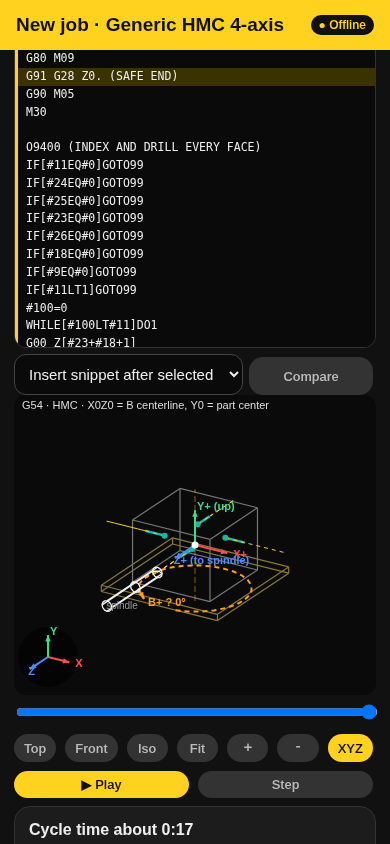
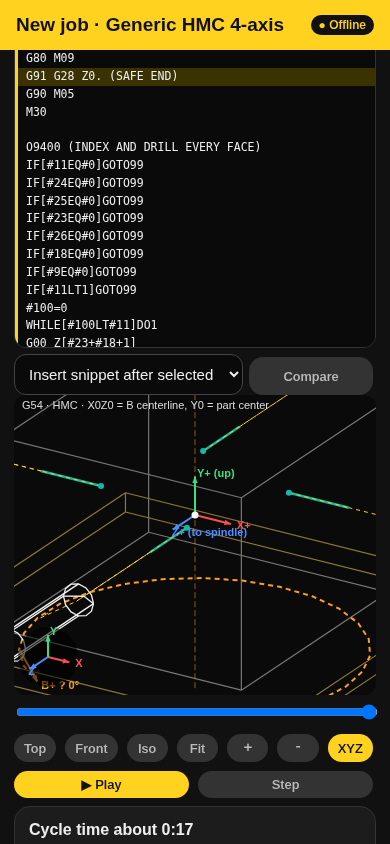
Round 8: import file into editor, lathe tool-nose radius + comp note, mill side out-of-stock, bigger HMC fit, cache-busted tests

diff --git a/index.html b/index.html
@@ -359,7 +359,7 @@ function snips(){document.querySelectorAll('.tabs button').forEach(b=>b.classLis
 // ---------- samples (§27), about + change log (§33)
 const SAMPLES=[['Mill A','Bolt circle (mill)','G54 T5 6 hole bolt circle 3.0 dia center x0 y0 z0 0 start 15 0.5 deep peck 0.1'],['Mill A','Hole grid (mill)','G55 T2 3 x 4 grid 0.75 spacing start x0.5 y0.5 z0 0 0.4 deep drill'],['Mill A','Face mill','G54 T1 face 4 x 3 take off 0.06 stepdown 0.02 stepover 70 z0 0'],['Lathe 1','OD turn (lathe)','G54 T1 turn 2.0 bar to 1.5 dia 3 long z0 0 chamfer 0.03'],['Lathe 1','OD groove (lathe)','G54 T3 groove 0.25 wide 0.1 deep at z-1.0 2.0 bar z0 0']];
 function sample(i){const s=SAMPLES[i],k=S.m.findIndex(m=>m.name==s[0]);if(k>=0)S.cur=k;tab('new');ex(s[2])}
-const LOG=[['0.7 · Oct 12','B rotation arrow on horizontal mills (dashed ? until direction confirmed), live B angle. XYZ triad at the work offset with zero description, A/B rotation arrow, corner view gizmo, live tool position, triad toggle.'],['0.6 · Oct 12','Per-machine tool libraries, file import for scanner/compare, O-number .nc export with % and CRLF/LF, keyboard shortcuts, 4th-axis stock check fix.'],['0.5 · Oct 12','Probe sim touches the stock wall; rigid tap (G84, M29 per machine); 4th-axis every-face drilling; teach mode; PIN lock; more edge-case checks.'],['0.4 · Oct 12','Probing jobs (bore, surface, web, pocket) with G31 + G10 write, machine options checklist, reference, compare, batch check, tool life, backup/import/clear, snippet insert.'],['0.3 · Oct 12','Simulator now runs your edited macro text (small Macro B interpreter). Lathe view fit/pan/zoom. Tool library, G-code scanner, calculators, alarm preview, export, setup sheet, samples, snippets.'],['0.2 · Oct 12','Lathe jobs, tool shown in sim, scrub + line highlight, required positional values, extended work offsets.'],['0.1 · Oct 12','First prototype: machines, bolt circle/grid/face, Macro B generator, checker, 3D view, recent.']];
+const LOG=[['0.8 · Oct 12','HMC kinematics view, import a file into the editor, lathe tool-nose radius, mill side out-of-stock check, bigger HMC fit.'],['0.7 · Oct 12','B rotation arrow on horizontal mills (dashed ? until direction confirmed), live B angle. XYZ triad at the work offset with zero description, A/B rotation arrow, corner view gizmo, live tool position, triad toggle.'],['0.6 · Oct 12','Per-machine tool libraries, file import for scanner/compare, O-number .nc export with % and CRLF/LF, keyboard shortcuts, 4th-axis stock check fix.'],['0.5 · Oct 12','Probe sim touches the stock wall; rigid tap (G84, M29 per machine); 4th-axis every-face drilling; teach mode; PIN lock; more edge-case checks.'],['0.4 · Oct 12','Probing jobs (bore, surface, web, pocket) with G31 + G10 write, machine options checklist, reference, compare, batch check, tool life, backup/import/clear, snippet insert.'],['0.3 · Oct 12','Simulator now runs your edited macro text (small Macro B interpreter). Lathe view fit/pan/zoom. Tool library, G-code scanner, calculators, alarm preview, export, setup sheet, samples, snippets.'],['0.2 · Oct 12','Lathe jobs, tool shown in sim, scrub + line highlight, required positional values, extended work offsets.'],['0.1 · Oct 12','First prototype: machines, bolt circle/grid/face, Macro B generator, checker, 3D view, recent.']];
 function about(){document.querySelectorAll('.tabs button').forEach(b=>b.classList.toggle('on',b.dataset.t=='more'));$('#ttl').textContent='About';V.innerHTML=`<div class="card"><div class="t">Macro Catculator 😼 prototype</div><div class="s">Fully offline. Generic Fanuc-style Macro B only. Not affiliated with any machine or control maker. Demo data only.</div><div class="foot">Always dry-run and single-block on the machine before production.</div></div><div class="card"><div class="t">Change log</div>${LOG.map(l=>`<div class="s"><b style="color:#ffd21f">${l[0]}</b> — ${l[1]}</div>`).join('')}</div><button class="btn o" onclick="more()">Back</button>`}
 function more(){$('#ttl').textContent='More';document.querySelectorAll('.tabs button').forEach(b=>b.classList.toggle('on',b.dataset.t=='more'));
  V.innerHTML=[['🔧 Tool library & life','tools()'],['📖 Reference','reference()'],['⇄ Compare programs','compare()'],['✅ Batch check','batch()'],['💾 Your data (backup / clear)','data()'],['🔍 G-code scanner','scanner()'],['🧮 Calculators','calc()'],['⭐ Snippets','snips()'],['ℹ About & change log','about()']].map(([n,f])=>`<div class="card" onclick="${f}"><div class="t">${n}</div></div>`).join('')+`<div class="card"><div class="t">Sample jobs</div>${SAMPLES.map((s,i)=>`<button class="chip y" onclick="sample(${i})">${s[1]}</button>`).join('')}</div>`}
@@ -625,6 +625,29 @@ function drawHMC(){ctx.clearRect(0,0,cv.width,cv.height);const s=J.stock,M=J.M||
  const el=$('#tpos');if(el&&cur){const t=PT(cur.b),f=x=>(x>=0?' ':'')+x.toFixed(4);el.innerHTML=`Tool at <b style="color:${C3.X}">X${f(t[0])}</b> <b style="color:${C3.Y}">Y${f(t[1])}</b> <b style="color:${C3.Z}">Z${f(t[2])}</b> <b style="color:#ff9f1a">B${th.toFixed(1)}°</b> · line ${cur.l+1}`}}
 const _draw8=draw;draw=function(){if(J&&J.hmc&&cv&&ctx)return drawHMC();_draw8()};
 const _vw8=vw;vw=function(k){_vw8(k);if(J&&J.hmc){const s=J.stock;view.c=[0,0,0];view.s=Math.min(cv.clientWidth,300)*0.8/(Math.hypot(s[3]-s[0],s[4]-s[1]+0.6,s[5]-s[2])*1.5);if(k=='iso'||k=='fit'){view.rx=-1.15;view.rz=-0.55}draw()}};
+
+// ---------- round 8
+OPN.import='Imported program';REQ.import=[];
+function importToEditor(text){const lines=text.replace(/\r\n?/g,'\n').split('\n');while(lines.length&&!lines.at(-1).trim())lines.pop();
+ J={op:'import',p:{},text:'(imported file)',raw:lines,edits:{},lathe:isL()?1:0,date:Date.now()};lines.forEach((l,i)=>J.edits[i]=l);show()}
+const _gen9=gen;gen=function(j){if(j.op!='import')return _gen9(j);const r=interp(j.raw,{lathe:j.lathe});let b=[1e9,1e9,1e9,-1e9,-1e9,-1e9];r.moves.filter(m=>!m.r).forEach(m=>[m.a,m.b].forEach(p=>p.forEach((v,i)=>{b[i]=Math.min(b[i],v);b[i+3]=Math.max(b[i+3],v)})));
+ if(b[0]>b[3])b=[-1,-1,-1,1,1,0];j.stock=[b[0]-0.25,b[1]-0.25,b[2],b[3]+0.25,b[4]+0.25,Math.max(b[5],0)];if(j.lathe){const R=Math.max(0.5,b[3+0]+0.05);j.stock=[-R,-R,b[2],R,R,Math.max(0,b[5])];j.lb={R,L:-b[2],z:Math.max(0,b[5])}}
+ return{code:j.raw.slice(),moves:[{a:[0,0,2],b:[0,0,2],r:1,l:0}],out:0}};
+const _genL9=genL;genL=function(j){return j.op=='import'?gen(j):_genL9(j)};
+const _checks9=checks;checks=function(j){if(j.op!='import')return _checks9(j);const t=txt().join('\n');
+ return[['WHILE / END pairs match',(t.match(/DO\d/g)||[]).length==(t.match(/END\d/g)||[]).length],['Balanced [ ] brackets',(t.match(/\[/g)||[]).length==(t.match(/\]/g)||[]).length],['Ends with M30',/M30/.test(t)],['Safe start line found',/G(17|18) G20|G20 G(17|18)/.test(t)],['Work offset present',/G5[4-9]|G54\.1|G1[1-2]\d/.test(t)],['Imported: positions not checked against a part — verify on the control',false]]};
+// tool-nose radius (lathe) + comp note
+LSETS.push(['Tool nose radius (in)','0.031']);S.m.forEach(m=>{if(isLT(m.type)&&!m.s.find(x=>x.k=='Tool nose radius (in)'))m.s.push({k:'Tool nose radius (in)',v:'0.031',st:'suggested'})});
+const _checks9b=checks;checks=function(j){const c=_checks9b(j);if(j.lathe){const r=sv('Tool nose radius (in)'),t=txt().join('\n'),taper=(j.p.Chamfer&&j.p.Chamfer.v>0)||/G0?[23]\b/.test(t);c.push([`Tool-nose radius ${r?r.v:'?'} in (${r&&r.st=='user'?'set':'suggested'}): ${/G4[12]/.test(t)?'G41/G42 comp in program':taper?'no G41/G42 — chamfers/arcs will be off by about the nose radius':'straight cuts only, comp not needed'}`,/G4[12]/.test(t)||!taper])}return c};
+const _sheet9=sheet;sheet=function(){_sheet9();if(J.lathe){const r=sv('Tool nose radius (in)'),tb=document.querySelector('#sheet table');if(tb){const tr=document.createElement('tr');tr.innerHTML=`<td>Tool nose radius</td><td>${r?r.v:'?'} in ${r&&r.st=='user'?'':'(suggested — confirm insert)'}</td>`;tb.appendChild(tr)}}};
+// mill side out-of-stock
+const _refresh9=refresh;refresh=function(){_refresh9();if(J.lathe||J.hmc||J.rot||J.op=='face'||OPN2[J.op]||J.op=='import')return;const s=J.stock,r=((J.p['Drill Ø']||J.p.Cutter||{v:0}).v)/2;let n=0;
+ J.M.forEach(m=>{if(!m.r&&m.b[2]<s[5]-1e-6&&(m.b[0]<s[0]+r-1e-6||m.b[0]>s[3]-r+1e-6||m.b[1]<s[1]+r-1e-6||m.b[1]>s[4]-r+1e-6)){if(!m.out)n++;m.out=1}});
+ if(n){$('#info').insertAdjacentHTML('beforeend',`<div class="s" style="color:#ff8a8a">⚠ ${n} cut move(s) leave the side of the stock (red)</div>`);const ck=$('#cl');ck.insertAdjacentHTML('afterbegin','<div class="s">❌ Cuts stay inside stock sides</div>');draw()}};
+// HMC fit bigger
+const _vw9=vw;vw=function(k){_vw9(k);if(J&&J.hmc){const s=J.stock;view.s=Math.min(cv.clientWidth,300)*1.5/Math.hypot(s[3]-s[0],s[4]-s[1],s[5]-s[2]);view.py=-30;draw()}};
+// import button on New screen
+const _nw9=nw;nw=function(){_nw9();const l=document.createElement('label');l.className='btn o';l.style.display='block';l.innerHTML='⬆ Import .nc / .txt into the editor<input type="file" accept=".nc,.txt,.tap,.cnc" style="display:none">';V.querySelector('.btn').after(l);l.querySelector('input').onchange=async e=>{importToEditor(await e.target.files[0].text())}};
 
 if('serviceWorker'in navigator&&location.protocol!='file:')navigator.serviceWorker.register('sw.js');
 tab('machines');lockScreen();

diff --git a/test/ui-test8.html b/test/ui-test8.html
@@ -1,0 +1,15 @@
+<!doctype html><body><pre id="o"></pre><iframe id="f" src="../index.html?v=9" style="width:390px;height:844px"></iframe><script>
+const out=[],log=(n,ok)=>out.push((ok?'PASS ':'FAIL ')+n);let first=1;
+f.onload=()=>{const w=f.contentWindow;if(first){first=0;w.localStorage.clear();w.location.reload();return}
+ setTimeout(()=>{const d=w.document,E=x=>w.eval(x);w.confirm=()=>true;try{
+  E('S.cur=0');w.tab('new');log('import button on New',/Import .nc/.test(d.body.textContent));
+  w.importToEditor('%\nO0123 (TEST)\nG17 G20 G90 G54\nG00 X0 Y0 Z1.\nG01 Z-0.2 F10.\nG01 X2. Y1.\nG00 Z1.\nM30\n%');
+  log('imported lines are pink user lines',d.querySelectorAll('.ln.u').length==9);log('sim runs imported moves',E('J.M.length')>=4&&!E('J.run.err'));
+  log('checker runs on import',/checks passed/.test(d.querySelector('#ck').textContent));
+  E('S.cur=0');w.tab('new');w.ex('G54 T2 3 x 4 grid 0.75 spacing start x0 y0 z0 0 0.4 deep drill');const i=E("J.code.findIndex(l=>/^G52/.test(l))");const el=d.querySelector(`.ln[data-i="${i+3}"]`);
+  const k=E("J.code.findIndex(l=>/^G65/.test(l))");const e2=d.querySelector(`.ln[data-i="${k}"]`);e2.textContent=E('J.code['+k+']').replace('U0.75','U3.0');e2.oninput();
+  log('grid spacing edit beyond stock flagged red on sides',/leave the side of the stock/.test(d.querySelector('#info').textContent));
+  E('S.cur=2');w.tab('new');w.ex('G54 T1 turn 2.0 bar to 1.5 dia 3 long z0 0 chamfer 0.03');log('lathe nose radius note',/Tool-nose radius 0.031/.test(d.querySelector('#cl').textContent));
+  w.sheet();log('setup sheet shows nose radius',/Tool nose radius/.test(d.querySelector('#sheet').textContent));
+ }catch(e){out.push('ERROR '+e.message+' '+(e.stack||'').split('\n')[1])}o.textContent=out.join('\n')},800)};
+</script></body>

diff --git a/test/shots7.html b/test/shots7.html
@@ -1,8 +1,9 @@
-<!doctype html><body style="margin:0;background:#111"><iframe id="f" src="../index.html?v=8" style="width:390px;height:1500px;border:0"></iframe><script>
+<!doctype html><body style="margin:0;background:#111"><iframe id="f" src="../index.html?v=9" style="width:390px;height:1500px;border:0"></iframe><script>
 let first=1;const job=new URLSearchParams(location.search);
 f.onload=()=>{const w=f.contentWindow;if(first){first=0;w.localStorage.clear();w.location.reload();return}
  setTimeout(()=>{const E=x=>w.eval(x),k=job.get('k');w.confirm=()=>true;
   if(k=='mill'){E('S.cur=0');w.tab('new');w.ex('G54 T2 3 x 4 grid 0.75 spacing start x0.5 y0.5 z0 0 0.4 deep drill');w.scrub(Math.floor(E('J.M.length')*.4))}
+  if(k=='import'){E('S.cur=0');w.tab('new');w.importToEditor('%\nO0123 (IMPORTED POCKET)\nG17 G20 G90 G54\nG00 X0 Y0 Z1.\nG01 Z-0.2 F10.\nG01 X2.\nG03 X2. Y1. I0 J0.5\nG01 X0\nG02 X0 Y0 I0 J-0.5\nG00 Z1.\nM30\n%');w.scrub(E('J.M.length'))}
   if(k=='lathe'){E('S.cur=2');w.tab('new');w.ex('G54 T1 turn 2.0 bar to 1.5 dia 3 long z0 0 chamfer 0.03');w.scrub(Math.floor(E('J.M.length')*.5))}
   if(k=='hmc'){w.pick('Generic HMC 4-axis','Horizontal mills');E('S.cur=S.m.length-1');w.tab('new');w.ex('G54 T2 index 4 faces hole x0.3 y0.2 z0 1.0 0.4 deep drill');w.vw('iso');w.scrub(E('J.M.length'))}
   if(k=='hmcmid'){w.pick('Generic HMC 4-axis','Horizontal mills');E('S.cur=S.m.length-1');w.tab('new');w.ex('G54 T2 index 4 faces hole x0.3 y0.2 z0 1.0 0.4 deep drill');w.vw('iso');w.scrub(Math.floor(E('J.M.length')*.42))}

diff --git a/test/ui-test5.html b/test/ui-test5.html
@@ -1,4 +1,4 @@
-<!doctype html><body><pre id="o"></pre><iframe id="f" src="../index.html" style="width:390px;height:844px"></iframe><script>
+<!doctype html><body><pre id="o"></pre><iframe id="f" src="../index.html?v=9" style="width:390px;height:844px"></iframe><script>
 const out=[],log=(n,ok)=>out.push((ok?'PASS ':'FAIL ')+n);let first=1;
 f.onload=()=>{const w=f.contentWindow;if(first){first=0;w.localStorage.clear();w.location.reload();return}
  setTimeout(async()=>{const d=w.document,E=x=>w.eval(x),cl=()=>d.querySelector('#cl').textContent;w.confirm=()=>true;try{

diff --git a/test/ui-test6.html b/test/ui-test6.html
@@ -1,4 +1,4 @@
-<!doctype html><body><pre id="o"></pre><iframe id="f" src="../index.html" style="width:390px;height:844px"></iframe><script>
+<!doctype html><body><pre id="o"></pre><iframe id="f" src="../index.html?v=9" style="width:390px;height:844px"></iframe><script>
 const out=[],log=(n,ok)=>out.push((ok?'PASS ':'FAIL ')+n);let first=1;
 f.onload=()=>{const w=f.contentWindow;if(first){first=0;w.localStorage.clear();w.location.reload();return}
  setTimeout(async()=>{const d=w.document,E=x=>w.eval(x);w.confirm=()=>true;try{

diff --git a/test/ui-test4.html b/test/ui-test4.html
@@ -1,4 +1,4 @@
-<!doctype html><body><pre id="o"></pre><iframe id="f" src="../index.html" style="width:390px;height:844px"></iframe><script>
+<!doctype html><body><pre id="o"></pre><iframe id="f" src="../index.html?v=9" style="width:390px;height:844px"></iframe><script>
 const out=[],log=(n,ok)=>out.push((ok?'PASS ':'FAIL ')+n);let first=1;
 f.onload=()=>{const w=f.contentWindow;if(first){first=0;w.localStorage.clear();w.location.reload();return}
  setTimeout(()=>{const d=w.document,E=x=>w.eval(x);w.confirm=()=>true;try{

diff --git a/test/ui-test.html b/test/ui-test.html
@@ -1,4 +1,4 @@
-<!doctype html><body style="background:#fff"><pre id="o"></pre><iframe id="f" src="../index.html" style="width:390px;height:844px"></iframe><script>
+<!doctype html><body style="background:#fff"><pre id="o"></pre><iframe id="f" src="../index.html?v=9" style="width:390px;height:844px"></iframe><script>
 const out=[],log=(n,ok)=>out.push((ok?'PASS ':'FAIL ')+n);
 f.onload=()=>{const w=f.contentWindow,d=w.document;try{
  if(!window.r){window.r=1;w.localStorage.clear();w.location.reload();return}}catch(e){}
